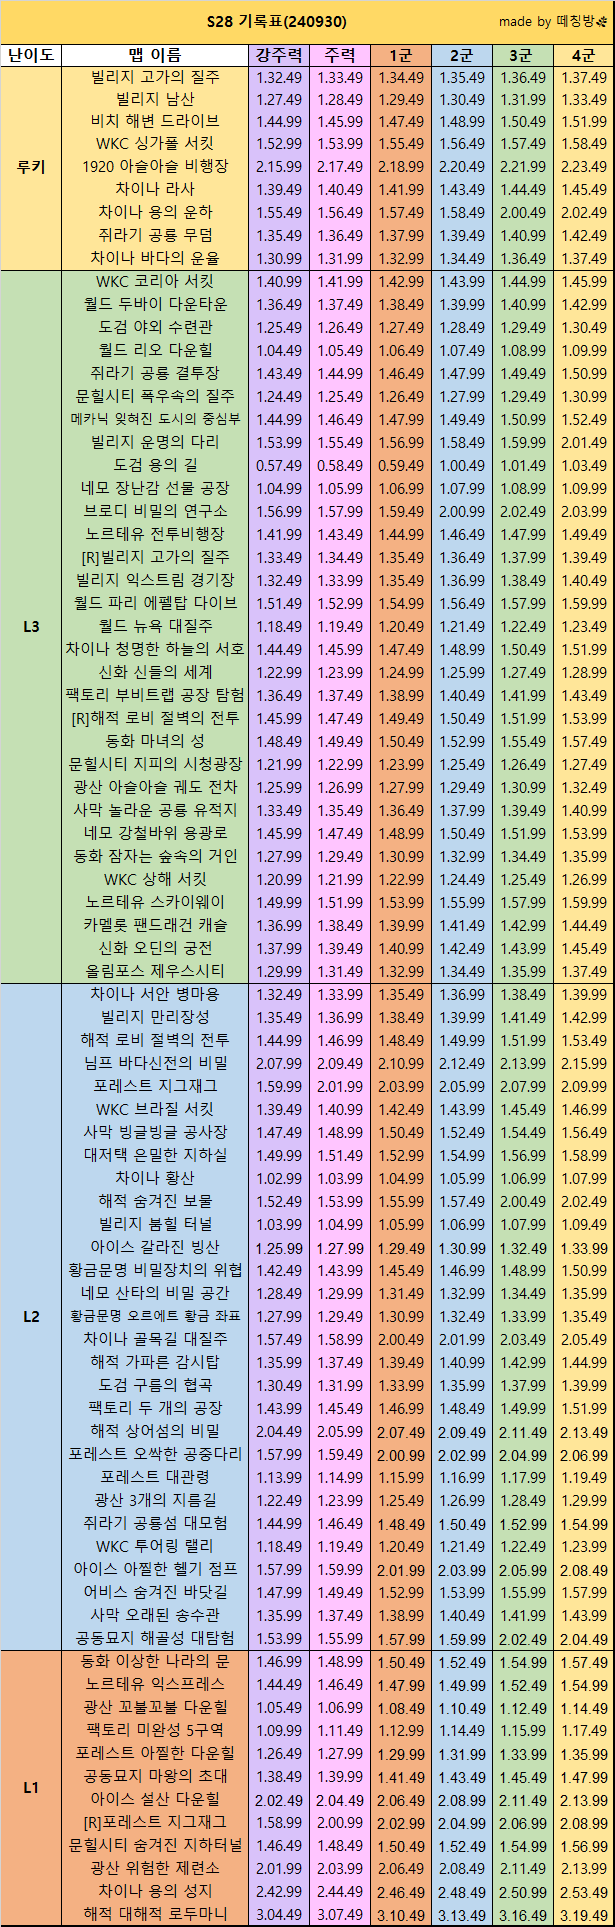
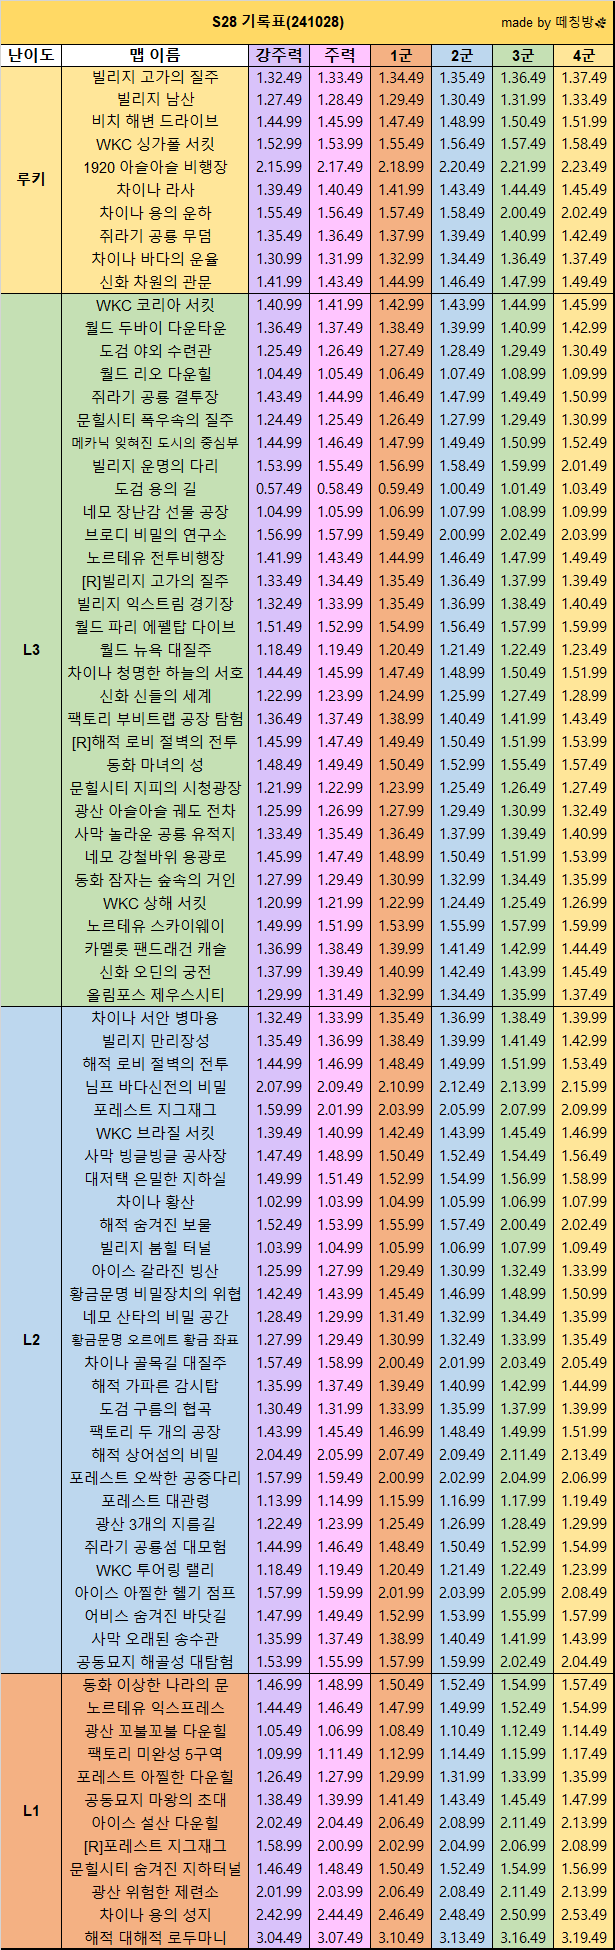
[frontend] feat: New S28 track

diff --git a/client/src/global/mapImages.js b/client/src/global/mapImages.js
@@ -7,6 +7,7 @@ import Rookie_006 from "../assets/images/map/006 차이나라사.png";
 import Rookie_007 from "../assets/images/map/007 용의운하.png";
 import Rookie_008 from "../assets/images/map/008 쥐공무.png";
 import Rookie_009 from "../assets/images/map/009 차이나 바다의 운율.png";
+import Rookie_010 from "../assets/images/map/010 신화 차원의 관문.png";
 
 import L3_001 from "../assets/images/map/001 코리아서킷.png";
 import L3_002 from "../assets/images/map/002 두바이.png";
@@ -94,6 +95,7 @@ const mapImages = [
   Rookie_007,
   Rookie_008,
   Rookie_009,
+  Rookie_010,
 
   L3_001,
   L3_002,

diff --git a/client/src/global/mapData.js b/client/src/global/mapData.js
@@ -116,6 +116,19 @@ const mapData = [
     ],
     image: "009 차이나 바다의 운율.png",
   },
+  {
+    name: "신화 차원의 관문",
+    record: [
+      "01:41:99",
+      "01:43:49",
+      "01:44:99",
+      "01:46:49",
+      "01:47:99",
+      "01:49:49",
+      "01:49:49 +",
+    ],
+    image: "010 신화 차원의 관문.png",
+  },
 
   {
     name: "WKC 코리아 서킷",
@@ -1071,7 +1084,7 @@ const mapData = [
 ];
 
 const mapCount = {
-  Rookie: 9,
+  Rookie: 10,
   L3: 31,
   L2: 29,
   L1: 12,
